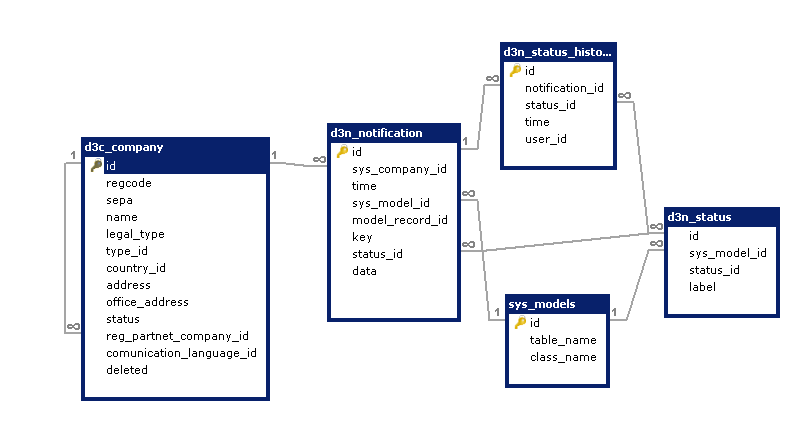
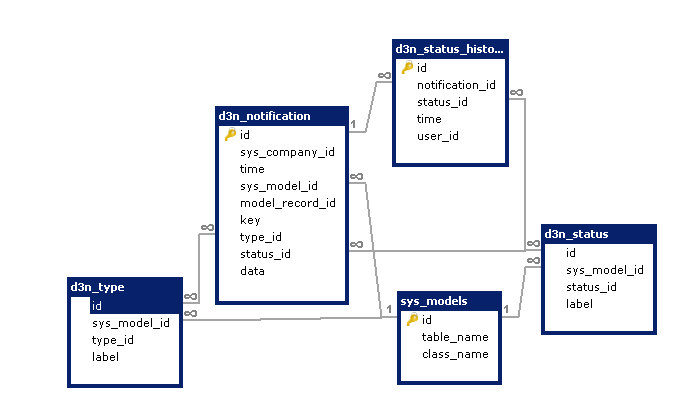
Readme added examples and DB schema updated a

Changed region(s): [[0.0615, 0.0872, 0.9839, 0.9588]]

diff --git a/README.md b/README.md
@@ -48,3 +48,132 @@ return [
 ## Usage
 
 ## Examples
+
+### notification model
+
+Extend regular model and implement Notification interface
+```php
+class KpsSmgsNotification extends KpsSmgs implements Notification
+{
+
+    public const NOTIFICATION_NEW_ID = 1;
+    public const NOTIFICATION_RESOLVED_ID = 2;
+    public const NOTIFICATION_IGNORED_ID = 3;
+
+    public const NOTIFICATION_TYPE_NO_DELIVERY = 1;
+    public const NOTIFICATION_TYPE_MISMATCH_LOAD_STATION = 2;
+    public const NOTIFICATION_TYPE_MISMATCH_END_STATION = 3;
+    public const NOTIFICATION_TYPE_KPS_EXTRA_CAR = 4;
+    public const NOTIFICATION_TYPE_DELIVERY_EXTRA_CAR = 5;
+    public const NOTIFICATION_TYPE_DIFF_WEIGHT = 6;
+
+    /** @var CmdDelivery */
+    public $delivery;
+
+    /** @var CmdDCar */
+    public $deliveryCar;
+
+    /** @var KpsSmgs */
+    public $smgs;
+
+    /** @var KpsSmgsWagon */
+    public $smgsWagon;
+
+    /** @var CmdStatus */
+    public $deliveryStatus;
+    /**
+     * @var mixed|null
+     */
+    public $statusId;
+    /**
+     * @var mixed|null
+     */
+    public $typeId;
+
+
+    public function getNotificationData(): array
+    {
+        $data = [];
+        if($this->deliveryCar){
+            $data['deliveryCarNumber'] = $this->deliveryCar->number;
+        }
+        if($this->deliveryStatus){
+            $data['deliveryStatusType'] = $this->deliveryStatus->type;
+            $data['deliveryStatusStation'] = TtStation::findOne($this->deliveryStatus->station_id)->name_ru;
+        }
+
+        if($this->delivery){
+            $data['deliveryWeight'] = $this->delivery->weight;
+            $data['deliverySmgsNumber'] = $this->delivery->delivery_note;
+        }
+
+        if($this->smgs){
+            $data['kpsSmgsNumber'] = $this->smgs->number;
+        }
+
+        if($this->smgsWagon){
+            $data['kpsCarNumber'] = $this->smgsWagon->number;
+            $data['kpsCarWeight'] = $this->smgsWagon->weight;
+        }
+        return $data;
+    }
+
+    public function getNotificationKey(): int
+    {
+        if($this->delivery){
+            return $this->delivery->id;
+        }
+        return 0;
+    }
+    public function getNotificationRecordId(): int
+    {
+        return $this->id;
+    }
+
+    public function getNotificationStatusList(): array
+    {
+        return [
+            self::NOTIFICATION_NEW_ID => 'New',
+            self::NOTIFICATION_RESOLVED_ID => 'Resolved',
+            self::NOTIFICATION_IGNORED_ID => 'Ignored'
+        ];
+    }
+
+    public function getNotificationTypeList(): array
+    {
+        return [
+            self::NOTIFICATION_TYPE_NO_DELIVERY => 'Not Found Delivery record',
+            self::NOTIFICATION_TYPE_MISMATCH_LOAD_STATION => 'Mismatch load station',
+            self::NOTIFICATION_TYPE_MISMATCH_END_STATION => 'Mismatch end station',
+            self::NOTIFICATION_TYPE_KPS_EXTRA_CAR => 'KPS Extra car',
+            self::NOTIFICATION_TYPE_DELIVERY_EXTRA_CAR => 'Delivery Extra Car',
+            self::NOTIFICATION_TYPE_DIFF_WEIGHT => 'Different weight',
+        ];
+    }
+
+    public function getStatusId(): int
+    {
+        return $this->statusId;
+    }
+
+    public function getTypeId(): int
+    {
+        return $this->typeId;
+    }
+}
+
+
+```
+
+###Notification registration
+```php
+$logic = new NotificationLogic($companyId,$userId);
+$notification = new KpsSmgsNotification();
+$notification->attributes = $smgs->attributes;
+$notification->typeId = KpsSmgsNotification::NOTIFICATION_TYPE_MISMATCH_END_STATION;
+$notification->statusId = KpsSmgsNotification::NOTIFICATION_NEW_ID;
+$notification->smgs = $smgs;
+$notification->delivery = $delivery;
+$notification->deliveryStatus = $statusEndStation;
+$logic->register($notification);
+```
